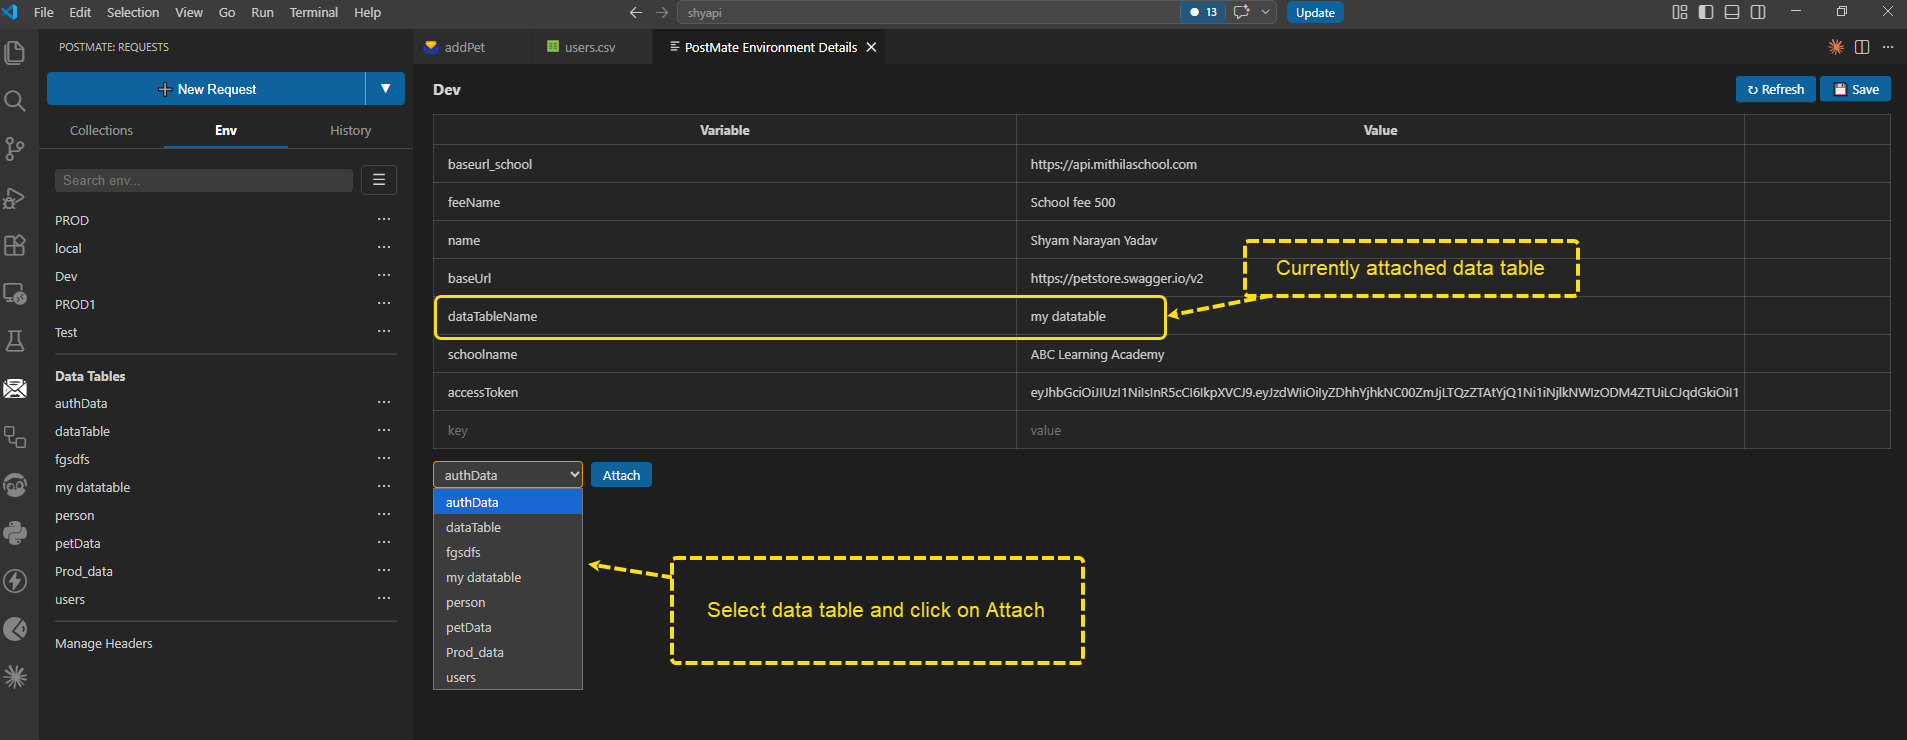
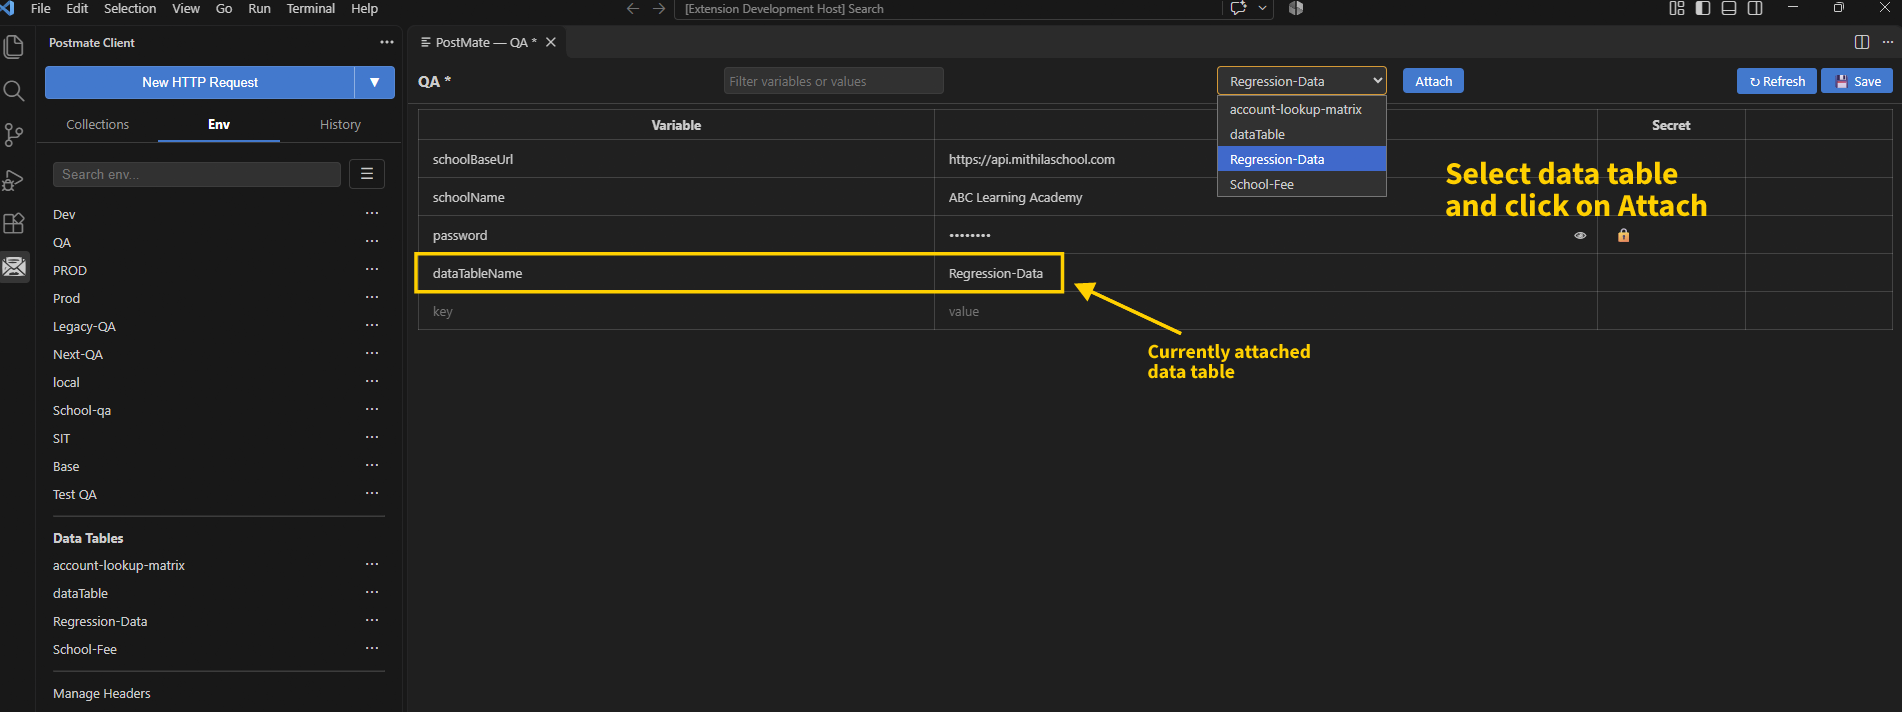
updated

diff --git a/docs/data-driven/data-tables.md b/docs/data-driven/data-tables.md
@@ -140,7 +140,7 @@ Creating a table is step one. To use it in requests, attach it to an environment
 
 1. Open the **Env** tab in the sidebar.
 2. Open the environment you want to attach the table to (e.g. Dev).
-3. At the bottom of the environment editor, **select the data table** from the dropdown.
+3. At the top of the environment editor, **select the data table** from the dropdown.
 4. Click **Attach**.
 
 A new `dataTableName` entry appears in the environment, recording the attachment.
